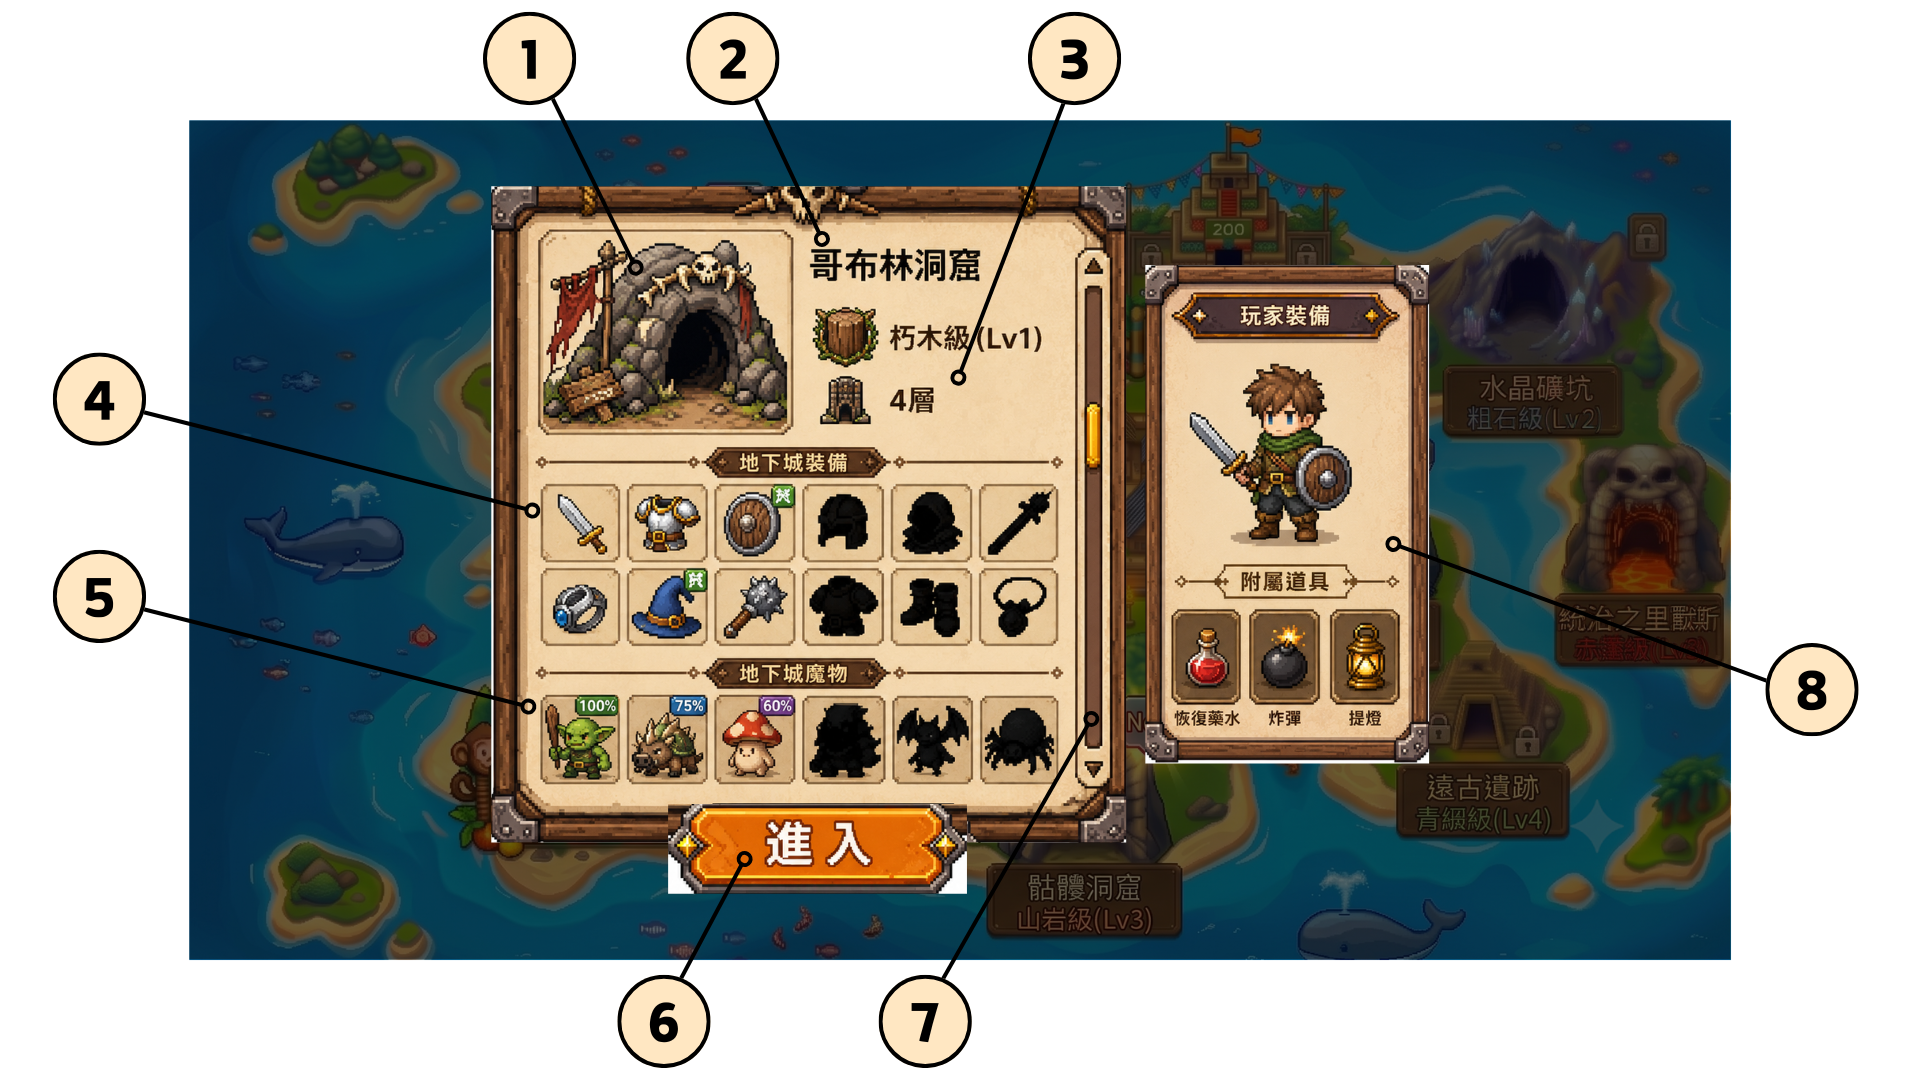
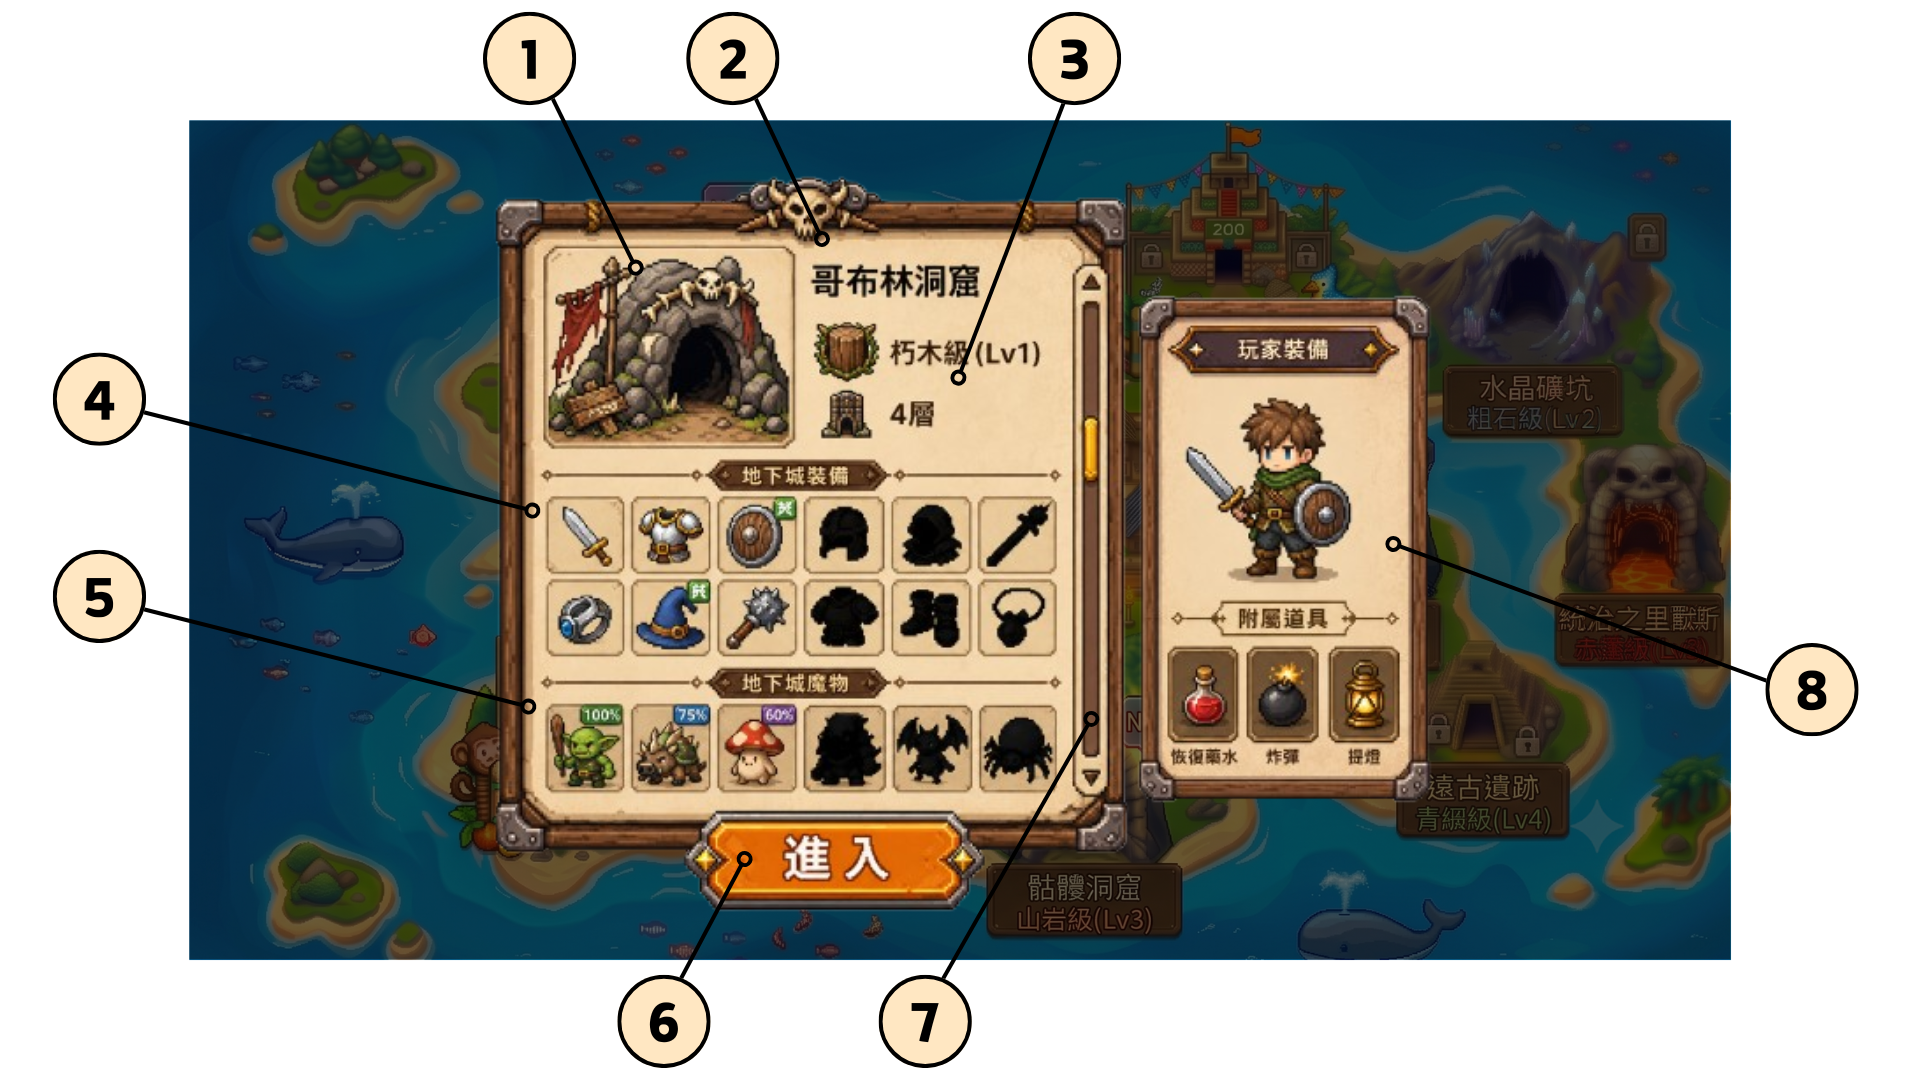
1.部分敘述加上連結  2.地下城進入預覽介面 更換示意圖  3.新增 基本設計(地下城探索)分頁

Changed region(s): [[0.25, 0.1528, 0.75, 0.8556]]

diff --git a/README.md b/README.md
@@ -22,12 +22,11 @@
 	- 動物園經營狀態頁面
 	- 任務資訊頁面
 - 存讀檔系統
-- 級別
-- 大地圖
+- [[級別]]
+- [[大地圖]]
 - 地下城探索
-	- 基本設計
+	- [[基本設計(地下城探索)]]
 	- 場景專屬UI
-		- 戰鬥前準備頁面
 		- 小地圖頁面
 		- 戰利品頁面
 	- 戰鬥
